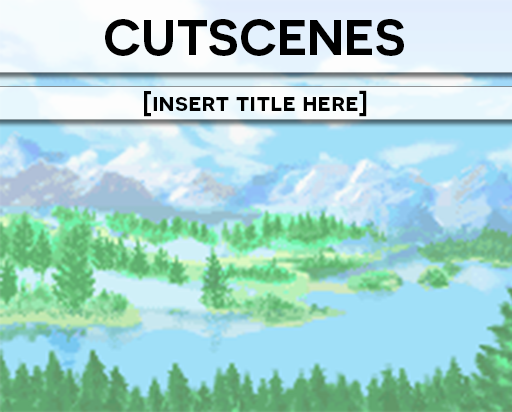
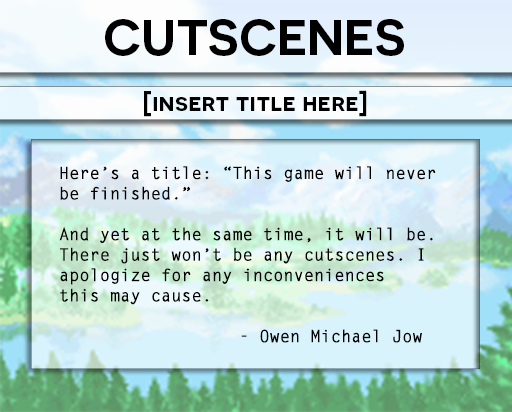
Finished the TripleT directory README

diff --git a/TripleT/Level2.java b/TripleT/Level2.java
@@ -29,7 +29,7 @@ public class Level2 extends LevelPanel implements ActionListener {
     
     // Constants
     private static final int NUM_BLOCKS = 145, XRANGE = 400, Y_DIST = 105, 
-            INITIAL_IMG_OFFSET = 14500, KIRBY_INITIAL_Y = 142, DAMAGE_GOAL = 170,
+            INITIAL_IMG_OFFSET = 14500, KIRBY_INITIAL_Y = 142, DAMAGE_GOAL = 180,
             POST_GAME_HANGTIME = 350, FONT_SIZE_SM = 14, FONT_SIZE_BIG = 21,
             BASE_POSTG_Y = 200;
     
@@ -59,6 +59,14 @@ public class Level2 extends LevelPanel implements ActionListener {
         for (int i = 0; i < NUM_BLOCKS; i++) {
             blocks.add(new Block((int) (Math.random() * XRANGE), i * Y_DIST));
         }
+    }
+
+    /**
+     * Specifies whether all action should have ceased.
+     * Like the development of this game.
+     */
+    private boolean isGameOver() {
+        return (blockDamage >= DAMAGE_GOAL) || (timeRemaining <= 0);
     }
     
     @Override
@@ -184,7 +192,7 @@ public class Level2 extends LevelPanel implements ActionListener {
     			g2.drawString("You did it!", 151, BASE_POSTG_Y + 1);
     			g2.drawString("That vacuum isn't getting YOU...", 51, BASE_POSTG_Y + 25);
     			g.setColor(Color.BLACK);
-    			g2.drawString("Nice!  You win!!", 150, BASE_POSTG_Y);
+    			g2.drawString("You did it!", 150, BASE_POSTG_Y);
     			g2.drawString("That vacuum isn't getting YOU...", 50, BASE_POSTG_Y + 24);
             } else {
     			g.setFont(new Font("Verdana", Font.BOLD, 21));
@@ -235,14 +243,14 @@ public class Level2 extends LevelPanel implements ActionListener {
     //================================================================================
     
     protected void rightPressed() {
-        if (!isPaused) {
+        if (!isPaused && !isGameOver()) {
             kirby.rightPressed();
             repaint();
         }
     }
     
     protected void leftPressed() {
-        if (!isPaused) {
+        if (!isPaused && !isGameOver()) {
             kirby.leftPressed();
             repaint();
         }
@@ -277,13 +285,17 @@ public class Level2 extends LevelPanel implements ActionListener {
     }
     
     protected void rightReleased() {
-        kirby.rightReleased();
-        repaint();
+        if (!isGameOver()) {
+            kirby.rightReleased();
+            repaint();
+        }
     }
     
     protected void leftReleased() {
-        kirby.leftReleased();
-        repaint();
+        if (!isGameOver()) {
+            kirby.leftReleased();
+            repaint();
+        }
     }
     
     //================================================================================

diff --git a/TripleT/LevelPanel.java b/TripleT/LevelPanel.java
@@ -14,7 +14,7 @@ import java.util.LinkedList;
 
 /**
  * An abstract blueprint for a level panel, which includes activation and painting methods
- * in addition to a drawForeground method that should be overridden by subclasses.
+ * (in addition to a drawForeground method that should be overridden by subclasses).
  * @author Owen Jow
  */
 abstract class LevelPanel extends KPanel implements ActionListener {
@@ -278,7 +278,7 @@ abstract class LevelPanel extends KPanel implements ActionListener {
             } else {
                 if (!kirby.isInAir()) {
                     for (Door d : doors) {
-                        if (Math.abs(d.getX(isLeft) + foreground.leftOffset - kirby.getX()) <= 3) {
+                        if (Math.abs(d.getX(isLeft) + foreground.leftOffset - kirby.getX()) < 5) {
                             kirby.enterDoor();
                             activeDoor = d;
                             return;

diff --git a/TripleT/Animator.java b/TripleT/Animator.java
@@ -3,8 +3,9 @@ package TripleT;
 import java.awt.Graphics2D;
 
 /**
- * A class that will serve as a controller for sprite animation.
- * For example, if you wanted to animate Kirby, you would do it through the methods in this class.
+ * A class that would have served as a controller for sprite animation... 
+ * until I ceased development on Triple T. If you wanted to animate Kirby, 
+ * for example, you would have done it through the methods in this class.
  * @author Owen Jow
  */
 public class Animator {
@@ -16,6 +17,6 @@ public class Animator {
      * @param g2 a Graphics2D object
      */
     public void draw(Graphics2D g2) {
-        /* To do: fill this in! */
+        /* I guess nobody will ever fill this in, since I kind of ceased development here. */
     }
 }

diff --git a/TripleT/Sprite.java b/TripleT/Sprite.java
@@ -121,6 +121,11 @@ abstract class Sprite {
         // Horizontal movement
         if (x + dx >= xMin && x + dx + spriteWidth <= xMax 
                 && !foreground.intersects(Math.min(22, spriteWidth), spriteHeight, x + dx, y)) { x += dx; }
+        else if (dx < 0 && x + dx + spriteWidth > xMax) {
+            x += dx; // this should fix the "sticky wall" glitch
+        } else if (dx > 0 && x + dx < xMin) {
+            x += dx; // this should fix the "sticky left wall" glitch, if there is one
+        }
     }
     
     /**

diff --git a/TripleT/StoryMenuPanel.java b/TripleT/StoryMenuPanel.java
@@ -12,7 +12,7 @@ import javax.swing.KeyStroke;
 
 /** 
  * The menu for the story mode, which includes a choice between each of the three save files.
- * It also allows for the option of deleting save files. Also, within the story menu we will use
+ * It also allows for the option of deleting save files. Incidentally, within the story menu we will use
  * the inherited "imgIndex" variable to represent the save file that is currently selected.
  * @author Owen Jow
  */

diff --git a/TripleT/Level2Kirby.java b/TripleT/Level2Kirby.java
@@ -5,7 +5,7 @@ import java.awt.Graphics2D;
 
 /**
  * Kirby in his Level 2 form, which is different than most other forms
- * because he's being pulled into the air and therefore requires less control + less animations.
+ * in that he's being pulled into the air and therefore requires less controls + less animations.
  * @author Owen Jow
  */
 public class Level2Kirby extends Kirby {

diff --git a/TripleT/CongratulatoryPanel.java b/TripleT/CongratulatoryPanel.java
@@ -28,6 +28,7 @@ public class CongratulatoryPanel extends PosterMenuPanel implements ActionListen
     public void activate() {
         timer = new Timer(15, this);
         timer.start();
+        counter = 0;
     }
     
     @Override

diff --git a/TripleT/README.md b/TripleT/README.md
@@ -3,40 +3,78 @@ A folder containing source code (.java) files for TripleTGame.
 
 ## Class Directory
 - [Animator](https://github.com/ohjay/TripleTGame/blob/master/TripleT/Animator.java)
+  A class that would have served as a controller for sprite animation... until I ceased development on Triple T. If you wanted to animate Kirby, for example, you would have done it through the methods in this class.
 - [CongratulatoryPanel](https://github.com/ohjay/TripleTGame/blob/master/TripleT/CongratulatoryPanel.java)
-- [ControlMenuPanel](https://github.com/ohjay/TripleTGame/blob/master/TripleT/ControlMenuPanel.java)
+  The panel that is displayed after you win, but before everyone goes home.
 - [ControllableSprite](https://github.com/ohjay/TripleTGame/blob/master/TripleT/ControllableSprite.java)
+  A sprite that can be controlled by the player (via the keyboard).
+- [ControlMenuPanel](https://github.com/ohjay/TripleTGame/blob/master/TripleT/ControlMenuPanel.java)
+  The panel for the controls menu, in which the user will be able to customize controls.
 - [CreditsPanel](https://github.com/ohjay/TripleTGame/blob/master/TripleT/CreditsPanel.java)
+  The credits panel.
 - [CutsceneMenuPanel](https://github.com/ohjay/TripleTGame/blob/master/TripleT/CutsceneMenuPanel.java)
+  The menu for selecting between cutscenes to view. There will be three cutscenes total: one will play at the beginning of each of the two worlds, and the last will play at the game's conclusion.
 - [DemoGhost](https://github.com/ohjay/TripleTGame/blob/master/TripleT/DemoGhost.java)
+  A ghost for use in the Dodge! pre-game panel demos.
 - [DemoStarKirby](https://github.com/ohjay/TripleTGame/blob/master/TripleT/DemoStarKirby.java)
+  A demo Star Kirby to be animated in the Dodge! pre-game screen.
 - [DodgePanel](https://github.com/ohjay/TripleTGame/blob/master/TripleT/DodgePanel.java)
+  A panel containing all of the topmost logic for Dodge!.
 - [DodgePausePanel](https://github.com/ohjay/TripleTGame/blob/master/TripleT/DodgePausePanel.java)
+  A pause panel for the Dodge! minigame. 
 - [DodgePostGPanel](https://github.com/ohjay/TripleTGame/blob/master/TripleT/DodgePostGPanel.java)
+  The post-game screen for Dodge!.
 - [DodgePreGPanel](https://github.com/ohjay/TripleTGame/blob/master/TripleT/DodgePreGPanel.java)
+  The panel to display before playing the Dodge! minigame. Includes an objective statement, controls info, and movement demonstrations.
 - [Door](https://github.com/ohjay/TripleTGame/blob/master/TripleT/Door.java)
+  A POJO containing door-related information.
 - [EscapableMenuPanel](https://github.com/ohjay/TripleTGame/blob/master/TripleT/EscapableMenuPanel.java)
+  A menu that can be escaped from (i.e. a menu with a "back" option).
 - [Foreground](https://github.com/ohjay/TripleTGame/blob/master/TripleT/Foreground.java)
+  The foreground; that is, a collection of all the objects that exist one layer above the background.
 - [GameOverPanel](https://github.com/ohjay/TripleTGame/blob/master/TripleT/GameOverPanel.java)
+  The panel that losers are shown.
 - [GameState](https://github.com/ohjay/TripleTGame/blob/master/TripleT/GameState.java)
+  A class containing any data required by the overall game. While theoretically many game states could exist, for every game ("game": imagine a physical handheld game that could be purchased from a store) there will only be a single GameState which will be used by any panels or components that require it.
 - [Images](https://github.com/ohjay/TripleTGame/blob/master/TripleT/Images.java)
+  A utility class for storing and manipulating images. Contains all of the game's image data and permits access to any desired image via that image's unique idenitifier.
 - [KPanel](https://github.com/ohjay/TripleTGame/blob/master/TripleT/KPanel.java)
+  A JPanel that contains logic common to all panels with key binding inputs.
 - [Kirby](https://github.com/ohjay/TripleTGame/blob/master/TripleT/Kirby.java)
+  This is story-mode Kirby in all his glory. As a controllable sprite, Kirby can be directed with the keyboard and will display movement animations based on his spritesheet.
 - [Level1](https://github.com/ohjay/TripleTGame/blob/master/TripleT/Level1.java)
+  The first level of the game.
 - [Level2](https://github.com/ohjay/TripleTGame/blob/master/TripleT/Level2.java)
+  The second level of the game (world 1, level 2).
 - [Level2Kirby](https://github.com/ohjay/TripleTGame/blob/master/TripleT/Level2Kirby.java)
+  Kirby in his Level 2 form, which is different than most other forms in that he's being pulled into the air and therefore requires less controls + less animations.
 - [LevelPanel](https://github.com/ohjay/TripleTGame/blob/master/TripleT/LevelPanel.java)
+  An abstract blueprint for a level panel, which includes activation and painting methods (in addition to a drawForeground method that should be overridden by subclasses).
 - [MainMenuPanel](https://github.com/ohjay/TripleTGame/blob/master/TripleT/MainMenuPanel.java)
+  The main menu panel for the game.
 - [MenuPanel](https://github.com/ohjay/TripleTGame/blob/master/TripleT/MenuPanel.java)
+  An abstract representation of a menu panel. Includes methods for key bindings, along with the ability to switch between options (which will tend to be images).
 - [MinigameGhost](https://github.com/ohjay/TripleTGame/blob/master/TripleT/MinigameGhost.java)
+  A Tedhaun, serving as a generic ghost in the Dodge! minigame. Includes positional state values, alongside image, collision detection, and movement behavior.
 - [MinigameMenuPanel](https://github.com/ohjay/TripleTGame/blob/master/TripleT/MinigameMenuPanel.java)
+  A menu that serves as a gateway to different minigames. There are two such minigames; one is a survival-style evasion game (Dodge!) and the other is a "Smash Bros"-inspired knockout game, in which the winner is the last man standing among the player and three CPUs.
 - [OptionMenuPanel](https://github.com/ohjay/TripleTGame/blob/master/TripleT/OptionMenuPanel.java)
+  A menu for toggling and choosing between game options. The player should be able to change Kirby's in-game color, and adjust the music volume.
 - [PersistentInfo](https://github.com/ohjay/TripleTGame/blob/master/TripleT/PersistentInfo.java)
+  A collection of data that should persist through different play sessions. In other words, it represents the data that will be saved. This will also serve as a container for individual save file data.
 - [SaveFileInfo](https://github.com/ohjay/TripleTGame/blob/master/TripleT/SaveFileInfo.java)
+  A class containing the data for an individual game save file. The game should contain three such save files.
 - [SmashPanel](https://github.com/ohjay/TripleTGame/blob/master/TripleT/SmashPanel.java)
+  The panel for the kirbySMASH minigame. That will never be made. :(
 - [Sprite](https://github.com/ohjay/TripleTGame/blob/master/TripleT/Sprite.java)
+  An abstract representation of a sprite that will be extended by all sprites (Google's definition of a sprite: a computer graphic that may be moved on-screen and otherwise manipulated as a single entity).
 - [StarKirby](https://github.com/ohjay/TripleTGame/blob/master/TripleT/StarKirby.java)
+  A Kirby to serve as the controllable model for Dodge!. Visually, StarKirby will be represented by Kirby on a star, surfing over sky or space.
 - [StoryMenuPanel](https://github.com/ohjay/TripleTGame/blob/master/TripleT/StoryMenuPanel.java)
+  The menu for the story mode, which includes a choice between each of the three save files. It also allows for the option of deleting save files. Incidentally, within the story menu we will use the inherited "imgIndex" variable to represent the save file that is currently selected.
 - [TreasureChest](https://github.com/ohjay/TripleTGame/blob/master/TripleT/TreasureChest.java)
+  A treasure chest, to be used as an objective in the Dodge! minigame.
 - [TripleT](https://github.com/ohjay/TripleTGame/blob/master/TripleT/TripleT.java)
+  [The main class for] Triple T, aka Kirby: The Tedhaun Treaty.
 - [TripleTWindow](https://github.com/ohjay/TripleTGame/blob/master/TripleT/TripleTWindow.java)
+  A representation of the on-screen window for the game.
